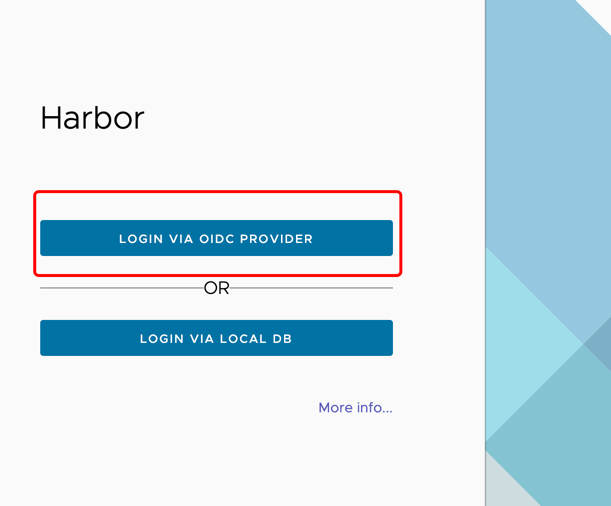
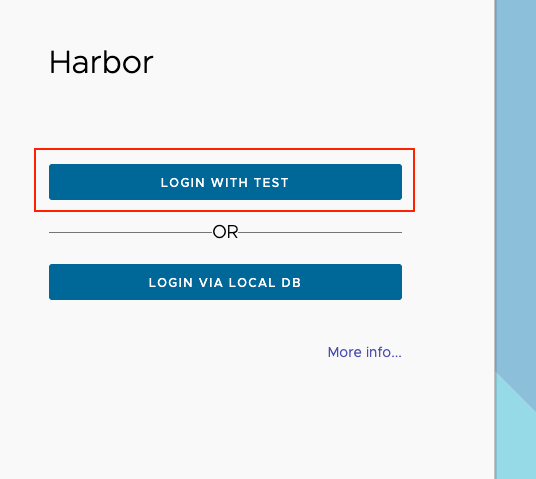
Update the screenshot and the button text for the OIDC auth mode

diff --git a/docs/administration/configure-authentication/oidc-auth.md b/docs/administration/configure-authentication/oidc-auth.md
@@ -56,13 +56,13 @@ To override and login via DB is possible when visiting the URL '/account/sign-in
 
 ### Log In to Harbor via an OIDC Provider
 
-When the Harbor system administrator has configured Harbor to authenticate via OIDC a **Login via OIDC Provider** button appears on the Harbor login page.  
+When the Harbor system administrator has configured Harbor to authenticate via OIDC a **LOGIN WITH ${your_oidc_provider_name}** button appears on the Harbor login page.  
 
 ![oidc_login](../../../img/oidc-login.png)
 
 **NOTE:** When Harbor is configured authentication via OIDC, the **LOGIN VIA LOCAL DB** button is for the local Harbor system administrator to log in.
     
-1. As a Harbor user, click the **Login via OIDC Provider** button.
+1. As a Harbor user, click the **LOGIN WITH ${your_oidc_provider_name}** button.
  
    This redirects you to the OIDC Provider for authentication, after the OIDC provider has authenticated you, you are redirected back to Harbor. 
 1. If this is the first time you are logging in to Harbor with OIDC, you will be onboarded to Harbor so that you have a user record in Harbor's database, which is used when adding you to projects, assigning roles, and so on.  The flow of this process depends on the configuration:
